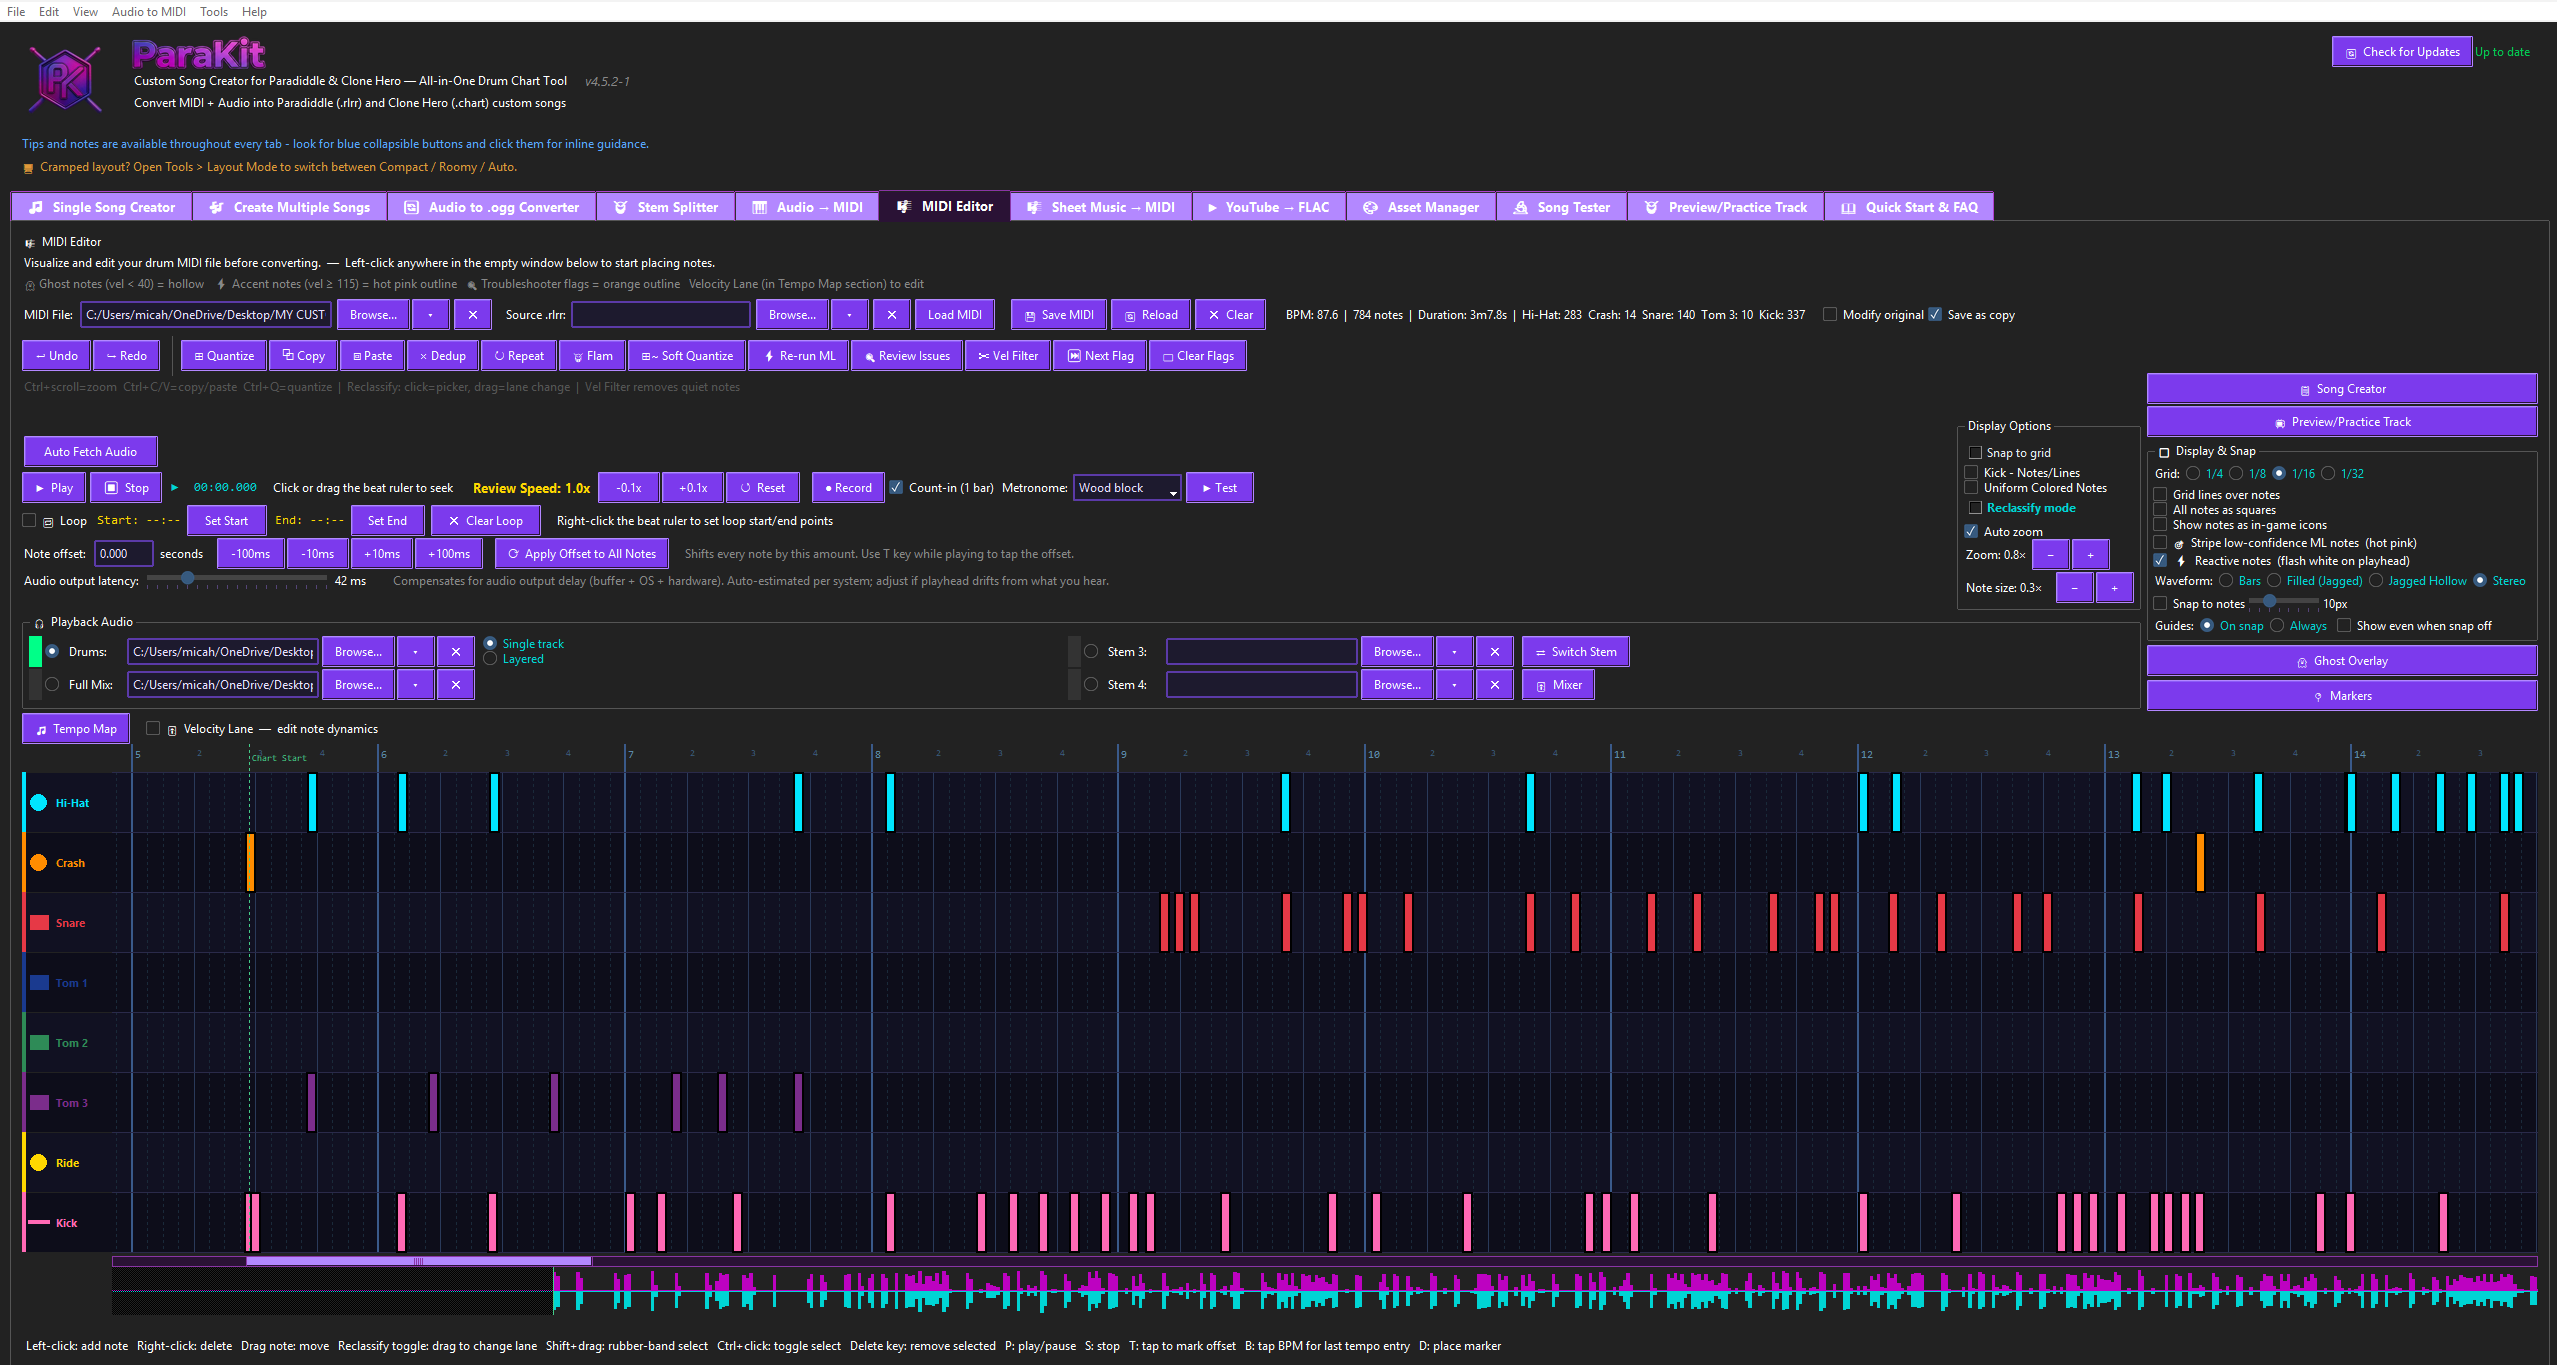
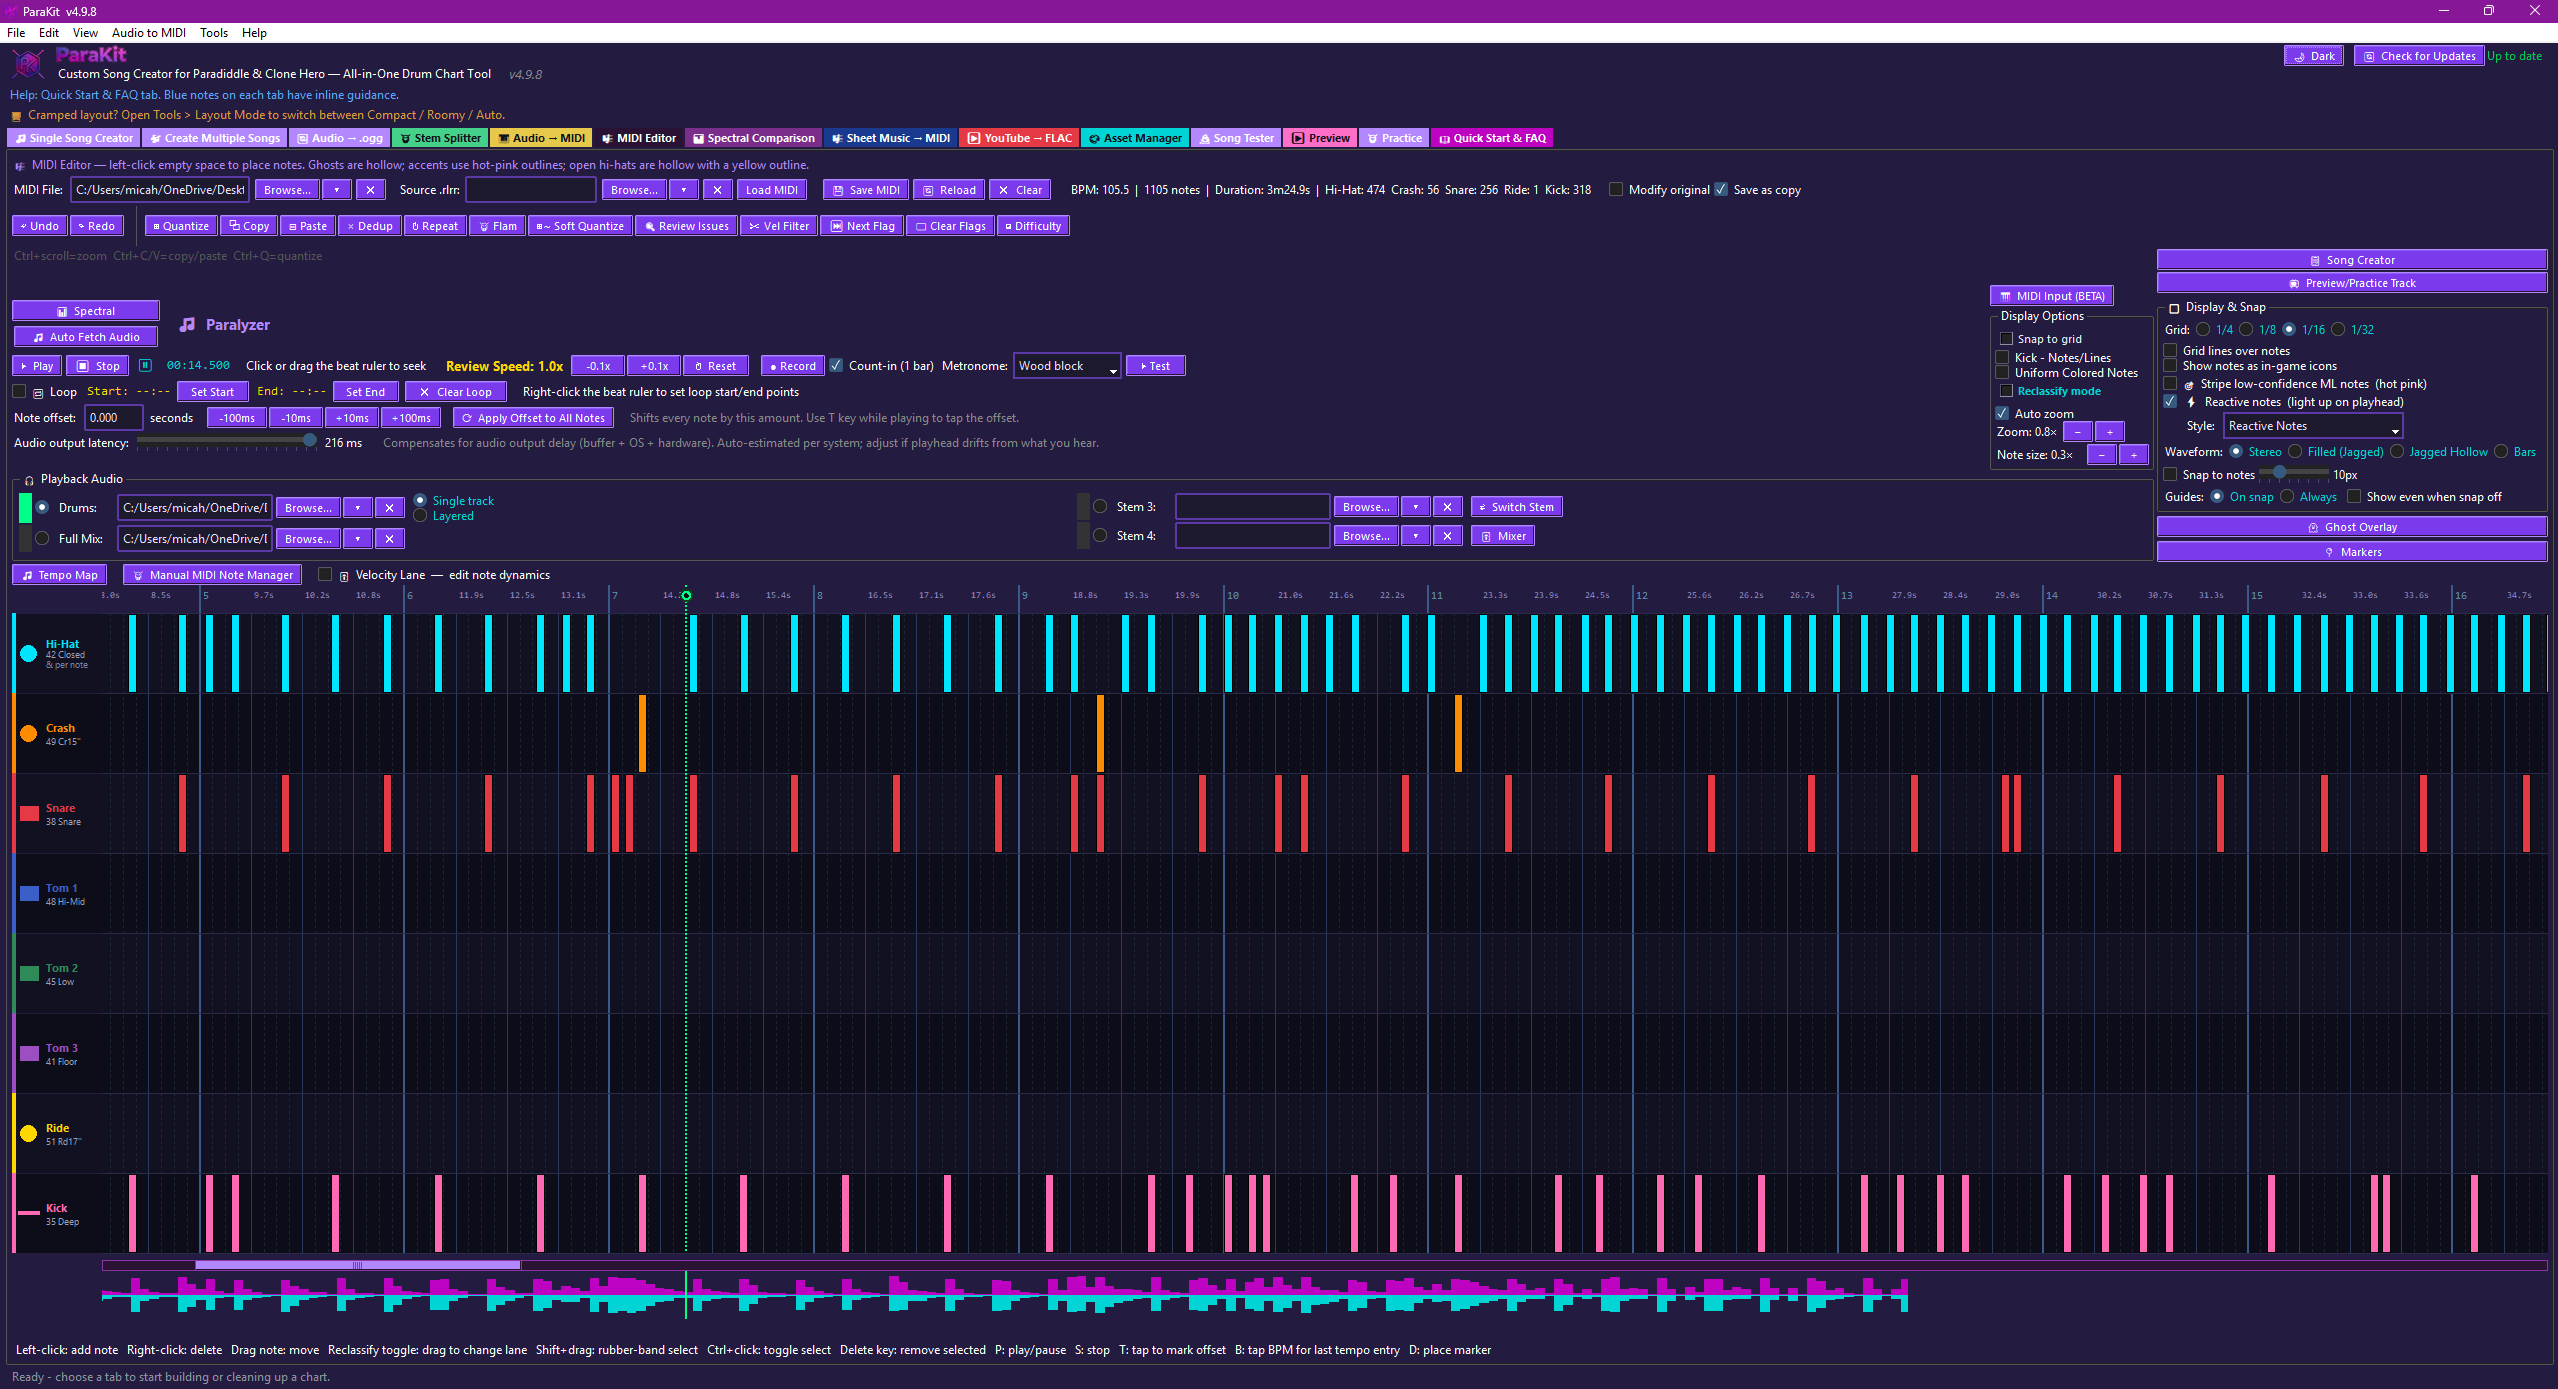
docs: refresh the MIDI Editor screenshot and log the tab's 4.9.x changes
The MIDI Editor shot in the README was from 2026-06-20 and predated everything the tab has
gained since. Replaced, with the cache-bust query bumped on BOTH references — GitHub's image
proxy caches by path, so a new file at the same path renders as the old one without it.

Added a Recent Changes entry covering what the new shot shows: reactive notes rebuilt to
flare in each note's own lane color with the classic white flash kept as a Style option and
both settings now persisted; sharper single-ring note sprites, thinner flag outlines, v5
outline toolbar buttons and an enlarged playhead grab-handle; seconds labelled on the ruler
alongside bar numbers as you zoom in; rubber-band and Ctrl+click note selection with
bulk hi-hat articulation; the new Difficulty and MIDI Input (BETA) buttons; and the tab now
drawing its lanes and loading a picked chart immediately.

Attribution was checked per feature rather than assumed from the version they appeared
near. Two claims were dropped after checking: 4.9.2's "in-game icons for cymbals" is the
PREVIEW tab, and 4.9.1's note-size reset buttons and high-resolution highway sprites are
PRACTICE — neither is a MIDI Editor change. "Paralyzer" visible beside Auto Fetch Audio is
the loaded song's title readout, not a control, so it is not described as one.

update_manifest.json regenerated for the README change; 117/117 hashes verified against the
staged blobs, release_gate PASS. Screenshots are correctly still excluded from the manifest.

diff --git a/README.md b/README.md
@@ -141,6 +141,21 @@ in Firefox before I had fixed the MIDI config, see below for details, although C
 
 *Screenshots will be added here each time there is a Feature/Tab Layout redesign.*
 
+**v4.9.8**<br>2026-07-31
+
+MIDI Editor — sharper chart, note selection, reactive notes and new toolbar buttons
+
+<img src="screenshots/app-06-midi-editor.png?v=20260731" width="900" alt="MIDI Editor — reactive notes, seconds on the ruler, Difficulty and MIDI Input buttons">
+
++ **Reactive Notes, rebuilt.** Notes used to blank solid white as the playhead crossed them, so you lost track of which drum it was at the moment it mattered. A note now flares to a brighter version of its **own lane color** and throws a soft halo that fades out behind it. The original flash is still there as **Flash Notes (Classic Style)** in the new Style dropdown — and as of this release both the toggle and the style are remembered between launches.
++ **Sharper chart sprites.** Notes are drawn as a single clean high-resolution ring instead of the old softer shape, flagged notes get thinner and tidier outlines, and the toolbar buttons wear the v5 outline style. The dot at the top of the green playhead is now an enlarged grab-handle, so it is obvious where to click to drag it.
++ **Seconds on the ruler as you zoom in.** The ruler labels time in seconds ("12s") alongside the bar numbers, in a slightly different color so the two kinds of label never blur together — much easier to line a chart up against a specific moment in the audio.
++ **Note selection.** **Shift+drag** rubber-bands a group, **Ctrl+click** toggles one note in or out, and **Delete** removes the selection. Select a run of hi-hats and right-click one of them to set **Closed / Open / Pedal** across all of them at once.
++ **Two new toolbar buttons.** **Difficulty** reduces the open chart in place, saves a reduced copy separately, or saves-and-compares with the original behind it as a ghost overlay — and re-targets from the original each time, so auditioning tiers never thins an already-thinned chart. **MIDI Input (BETA)** records drum hits straight into the editor from a USB kit.
++ **It opens ready to work.** Picking a MIDI now loads it immediately — by Browse, drag-and-drop or the recents menu — and the lanes, beat grid and ruler are drawn the moment you open the tab instead of after a click on the empty canvas. With a chart already open nothing loads until **Load MIDI** or **Reload**, so unsaved edits are never swapped out from underneath you.
+
+---
+
 **v4.7.8.9**<br>2026-07-13
 
 Audio → MIDI — tab polish
@@ -347,7 +362,7 @@ with hands-on testing on real songs, **with sources listed**, and the experiment
 <img src="screenshots/app-05-audio-to-midi.png?v=20260713" width="900" alt="Audio to MIDI">
 
 ### 6 · MIDI Editor
-<img src="screenshots/app-06-midi-editor.png?v=20260620" width="900" alt="MIDI Editor">
+<img src="screenshots/app-06-midi-editor.png?v=20260731" width="900" alt="MIDI Editor">
 
 ### 7 · Spectral Comparison
 Did the detector chart it right? The chart is overlaid on the audio's energy and the disagreements are
